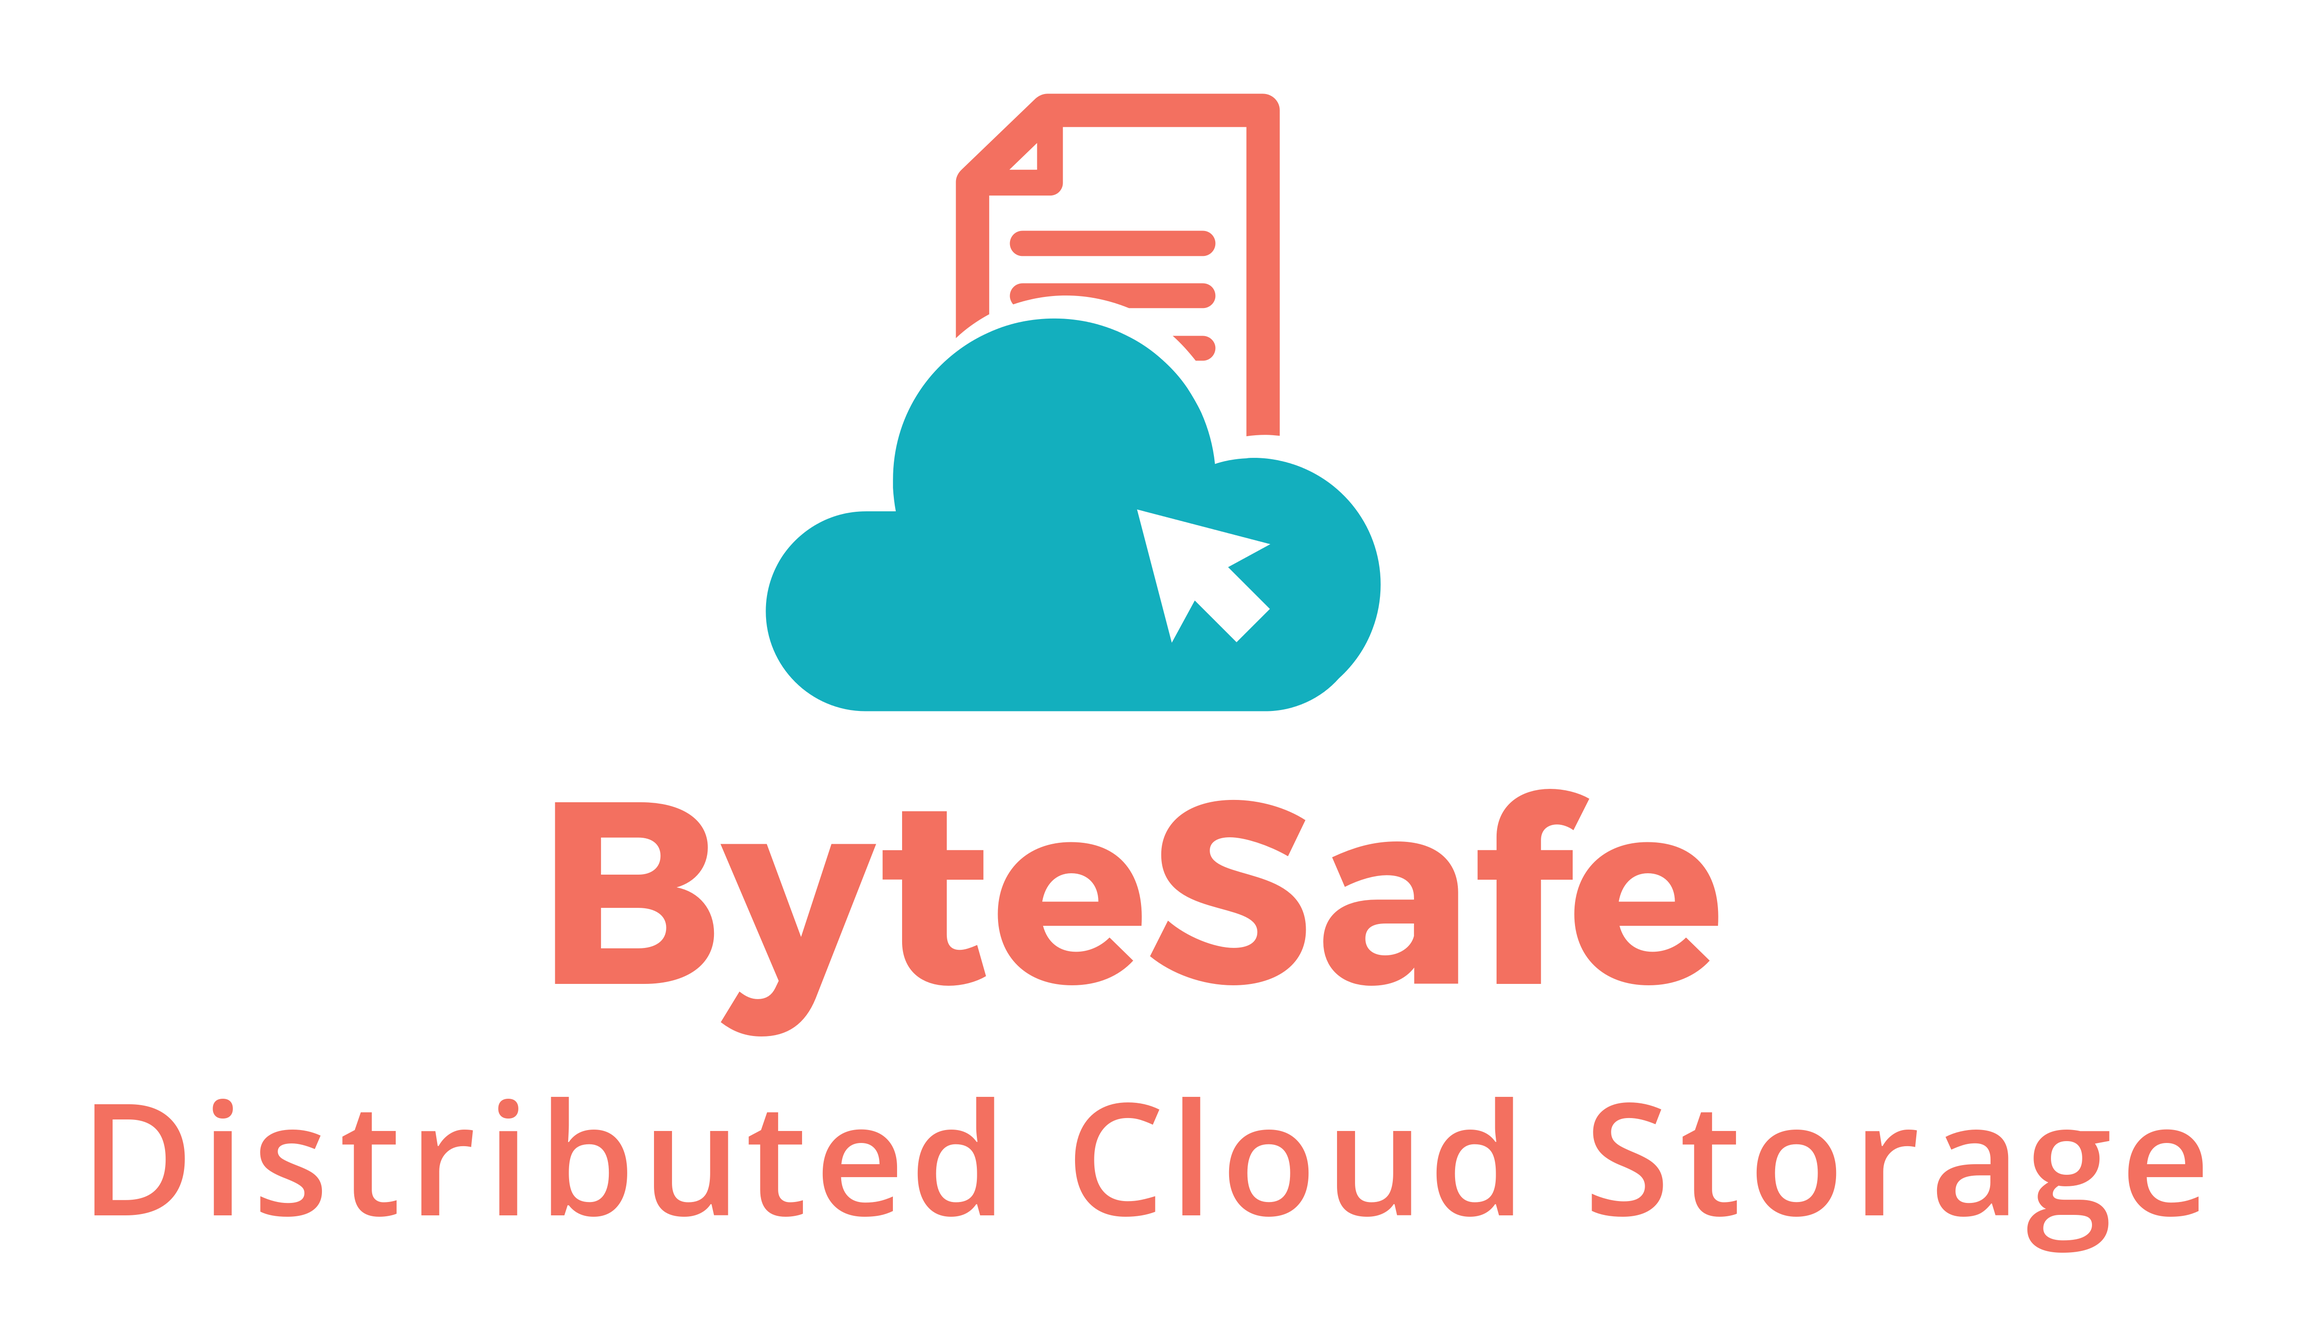
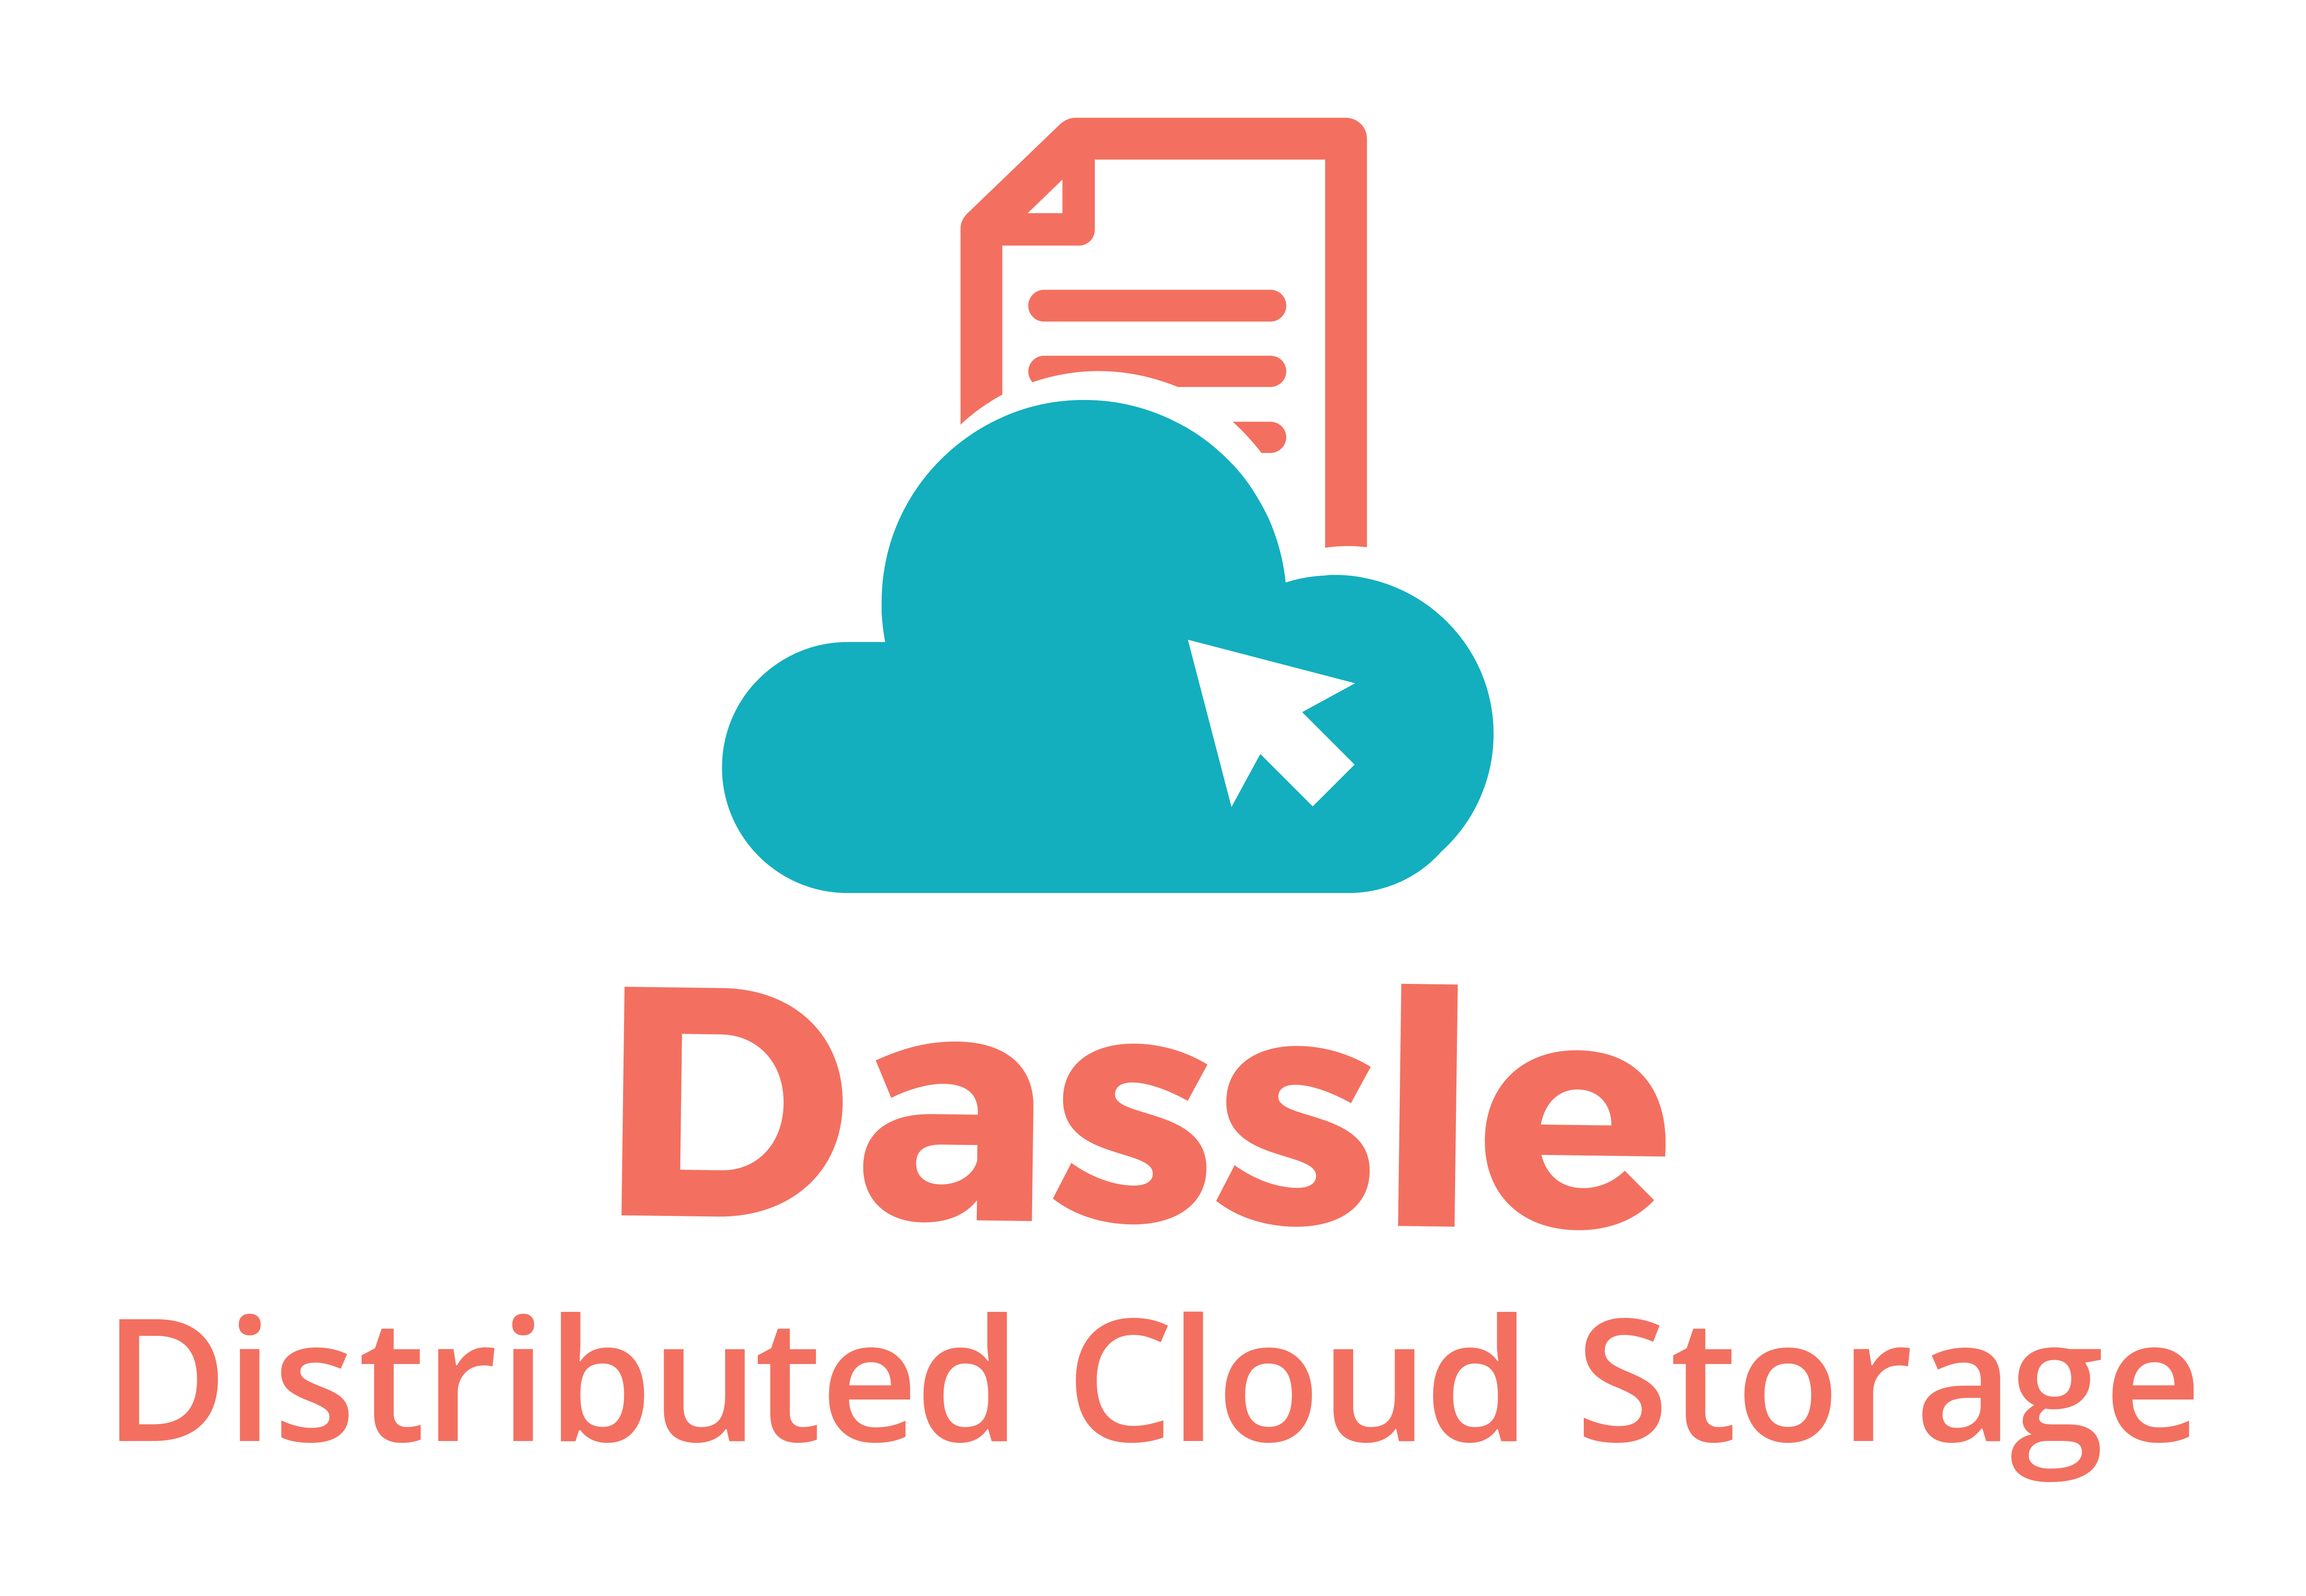
Revision v0.1.02261113

diff --git a/server.js b/server.js
@@ -2,6 +2,7 @@ var express = require('express');
 var fs = require('fs');
 var storj = require('storj-lib');
 var session = require('client-sessions');
+var through = require('through');
 var mnemonic = require('bitcore-mnemonic');
 var bitcore = require('bitcore-lib');
 var dotenv = require('dotenv');
@@ -278,19 +279,30 @@ app.get('/api/download', (req, res) => {
 
   console.log('**** Executing /api/download ****');
 
-  var bucketid = req.query.bucketid;
-  var fileid = req.query.fileid;
+  /*const bucketid = req.session.bucketid; */
+  const bucketid = 'b3bc796132362dd6324a4645';
+  const fileid = req.query.fileid;
+  const filename = req.query.filename;
 
-  if (!bucketid || !fileid) {
+  console.log('bucketid...', bucketid);
+  console.log('fileid...', fileid);
+  console.log('filename...', filename);
+
+  if (!bucketid || !fileid || !filename) {
     res.json({isDownload: false});
     return;
   }
 
+  /* const userdir = req.session.userdir; */
+  const userdir = './.users/a3de7e3f-5cc7-4e5f-8aba-b1d495475f78_19cd4895565e473aaa199efccb7e1253@heroku.storj.io';
+  console.log('User Directory', userdir);
+
   console.log('Getting keyring');
-  var keyring = storj.KeyRing(KEYRING_DIR, KEYRING_PASS);
+  /* const keyring = storj.KeyRing(userdir, req.session.passphrase); */
+  const keyring = storj.KeyRing(userdir, 'delay chuckle marine denial float pond right detect tomorrow cloud solar warrior');
 
   // Where the downloaded file will be saved
-  var target = fs.createWriteStream('./public/grumpy-dwnld.jpg');
+  var target = fs.createWriteStream(userdir + '/' + filename);
 
   // Get key to download file
   console.log('Get key for fileId');
@@ -306,36 +318,47 @@ app.get('/api/download', (req, res) => {
 
     function(err, stream) {
       if (err) {
-        return console.log('error', err.message);
+        console.log('FileStream error', err.message);
+        return;
       }
 
-    // Handle stream errors
-    stream.on('error', function(err) {
-      console.log('warn', 'Failed to download shard, reason: %s', [err.message]);
-      // Delete the partial file
-      fs.unlink(filepath, function(unlinkFailed) {
-        if (unlinkFailed) {
-          return console.log('error', 'Failed to unlink partial file.');
-        }
-
-        if (!err.pointer) {
+      // Handle stream errors
+      stream.on('error', function(err) {
+        console.log('warn', 'Failed to download shard, reason: %s', [err.message]);
+        // Delete the partial file
+        fs.unlink(target, function(unlinkFailed) {
+          if (unlinkFailed) {
+            return console.log('error', 'Failed to unlink partial file.');
+          }
+          if (!err.pointer) {
             return;
-        }
-      });
-    }).pipe(through(function(chunk) {
-        received += chunk.length;
-        console.log('info', 'Received %s of %s bytes', [received, stream._length]);
-        this.queue(chunk);
-    })).pipe(decrypter)
-       .pipe(target);
+          }
+        });
 
+      }).pipe(through(function(chunk) {
+          received += chunk.length;
+          console.log('info', 'Received %s of %s bytes', [received, stream._length]);
+          this.queue(chunk);
+      })).pipe(decrypter)
+         .pipe(target)
   });
 
   // Handle Events emitted from file download stream
   target.on('finish', function() {
-    console.log('Finished downloading file');
+    console.log('Downloading File');
+    res.download(userdir + '/' + filename, filename);
   }).on('error', function(err) {
     console.log('error', err.message);
+  });
+
+  //Delete file
+  res.on('finish', function(){
+    fs.unlink(userdir + '/' + filename, function(err) {
+      if (err) {
+        return console.log(err);
+      }
+      console.log('Downloadable File Deleted');
+    });
   });
 
 });
@@ -373,6 +396,52 @@ app.get('/api/generate', (req, res) => {
       return console.log('error', err.message);
     }
     console.log('Added the keypair public key to the user account');
+  });
+
+});
+
+//Authentication with GET
+app.get('/api/authget', (req, res) => {
+
+  console.log('**** Executing /api/auth ****');
+
+  req.session.authenticated = false;
+  client = null;
+
+  const passphrase = req.query.passphrase;
+
+  if (!passphrase) {
+    res.json({isLoggedIn: false});
+    return;
+  }
+
+  //Create Private Key from Mnemonic
+  const value = new Buffer(passphrase);
+  const hash = bitcore.crypto.Hash.sha256(value);
+  const bn = bitcore.crypto.BN.fromBuffer(hash);
+  const privateKey = new bitcore.PrivateKey(bn);
+  //var address = privateKey.toAddress();
+  //console.log('Created private key', address);
+
+  // Login using the keypair
+  const keypair = storj.KeyPair(privateKey.toWIF());
+  client = storj.BridgeClient(api, { keyPair: keypair });
+
+  //Check if Login successful
+  client.getPublicKeys(function(err, keys) {
+    if (err) {
+      req.session.authenticated = false;
+      res.json({isLoggedIn: false});
+      return;
+    }
+    else {
+      //Login was successful
+      req.session.authenticated = true;
+      req.session.passphrase = passphrase;
+      req.session.userdir = USER_DIR + keys[0].user;
+      res.json({isLoggedIn: true});
+      return;
+    }
   });
 
 });

diff --git a/client/src/Client.js b/client/src/Client.js
@@ -51,6 +51,15 @@ export function Files(param, cb) {
     .then(cb);
 }
 
+export function Download(fileid, filename, cb) {
+  return fetch(`api/download?fileid=${fileid}&filename=${filename}`, {
+    method: 'GET',
+    credentials: 'include',
+  }).then(checkStatus)
+    .then(returnBlob)
+    .then(cb);
+}
+
 function checkStatus(response) {
   if (response.status >= 200 && response.status < 300) {
     return response;
@@ -58,11 +67,15 @@ function checkStatus(response) {
     const error = new Error(`HTTP Error ${response.statusText}`);
     error.status = response.statusText;
     error.response = response;
-    console.log(error); // eslint-disable-line no-console
+    //console.log(error); // eslint-disable-line no-console
     throw error;
   }
 }
 
 function parseJSON(response) {
   return response.json();
+}
+
+function returnBlob(response){
+  return response.blob();
 }

diff --git a/client/src/Main.js b/client/src/Main.js
@@ -4,6 +4,7 @@ import {FileList} from './Main/FileList';
 import {Dropzone} from './Main/Dropzone';
 import {Buckets} from './Client';
 import {Files} from './Client';
+import {Download} from './Client';
 
 class Main extends Component {
 
@@ -28,6 +29,7 @@ class Main extends Component {
       bucketName: null,
       isFiles: false,
       files: [],
+      isDownload: false
     };
   }
 
@@ -113,8 +115,12 @@ class Main extends Component {
     });
   }
 
-  handleDownloadClick() {
-    console.log('Need to wire up download');
+  handleDownloadClick(row) {
+    Download(row.props.data.id, row.props.data.filename, (result) => {
+      this.setState({
+        isDownload:result.isDownload
+      });
+    });
   }
 
   // Render Components

diff --git a/client/src/Main/Dropzone.js b/client/src/Main/Dropzone.js
@@ -7,6 +7,8 @@ class Dropzone extends Component {
 
   render() {
 
+    var ReactDOMServer = require('react-dom/server');
+
     console.log('Rendering Dropzone');
 
     var processingCallback = function() {
@@ -34,7 +36,7 @@ class Dropzone extends Component {
       maxFilesize: 100,
       dictFileTooBig: 'File is to large',
       maxFiles: 10,
-      dictMaxFilesExceeded: 'Exceeded maximum allowable files'
+      dictMaxFilesExceeded: 'Exceeded maximum allowable files',
     };
 
     var eventHandlers = {

diff --git a/client/src/css/dropzone.css b/client/src/css/dropzone.css
@@ -338,8 +338,8 @@
       border-radius: 8px;
       overflow: hidden; }
       .dropzone .dz-preview .dz-progress .dz-upload {
-        background: #333;
-        background: linear-gradient(to bottom, #666, #444);
+        background: #F37060; /* Custom edit - pjw */
+        /* background: linear-gradient(to bottom, #666, #444); */ /* Comment out - pjw */
         position: absolute;
         top: 0;
         left: 0;

diff --git a/client/public/index.html b/client/public/index.html
@@ -17,7 +17,7 @@
       work correctly both with client-side routing and a non-root public URL.
       Learn how to configure a non-root public URL by running `npm run build`.
     -->
-    <title>ByteSafe</title>
+    <title>Dassle</title>
   </head>
   <body>
     <div id="root"></div>

diff --git a/client/src/Main/BucketList.js b/client/src/Main/BucketList.js
@@ -62,7 +62,7 @@ class BucketList extends Component {
         noDataMessage={'You need to create a Bucket. Click on the Create Bucket link.'}
         initialSort={'name'}
         onRowClick={this.props.onClick}
-      /> : null
+      />
 
     );
 

diff --git a/client/src/css/App.css b/client/src/css/App.css
@@ -1,6 +1,6 @@
 .App-logo {
-  height: 56px;
-  width: 200px;
+  height: 55px;
+  width: 156px;
 }
 
 .navbar-brand {
@@ -12,7 +12,7 @@
 }
 
 .welcome-logo {
-  height: 290px;
+  height: 346px;
   width: 500px;
 }
 

diff --git a/client/src/Main/FileList.js b/client/src/Main/FileList.js
@@ -63,7 +63,7 @@ class FileList extends Component {
         enableInfiniteScroll={true}
         bodyHeight={500}
         onRowClick={this.props.onClick}
-      /> : null
+      />
 
     );
 
